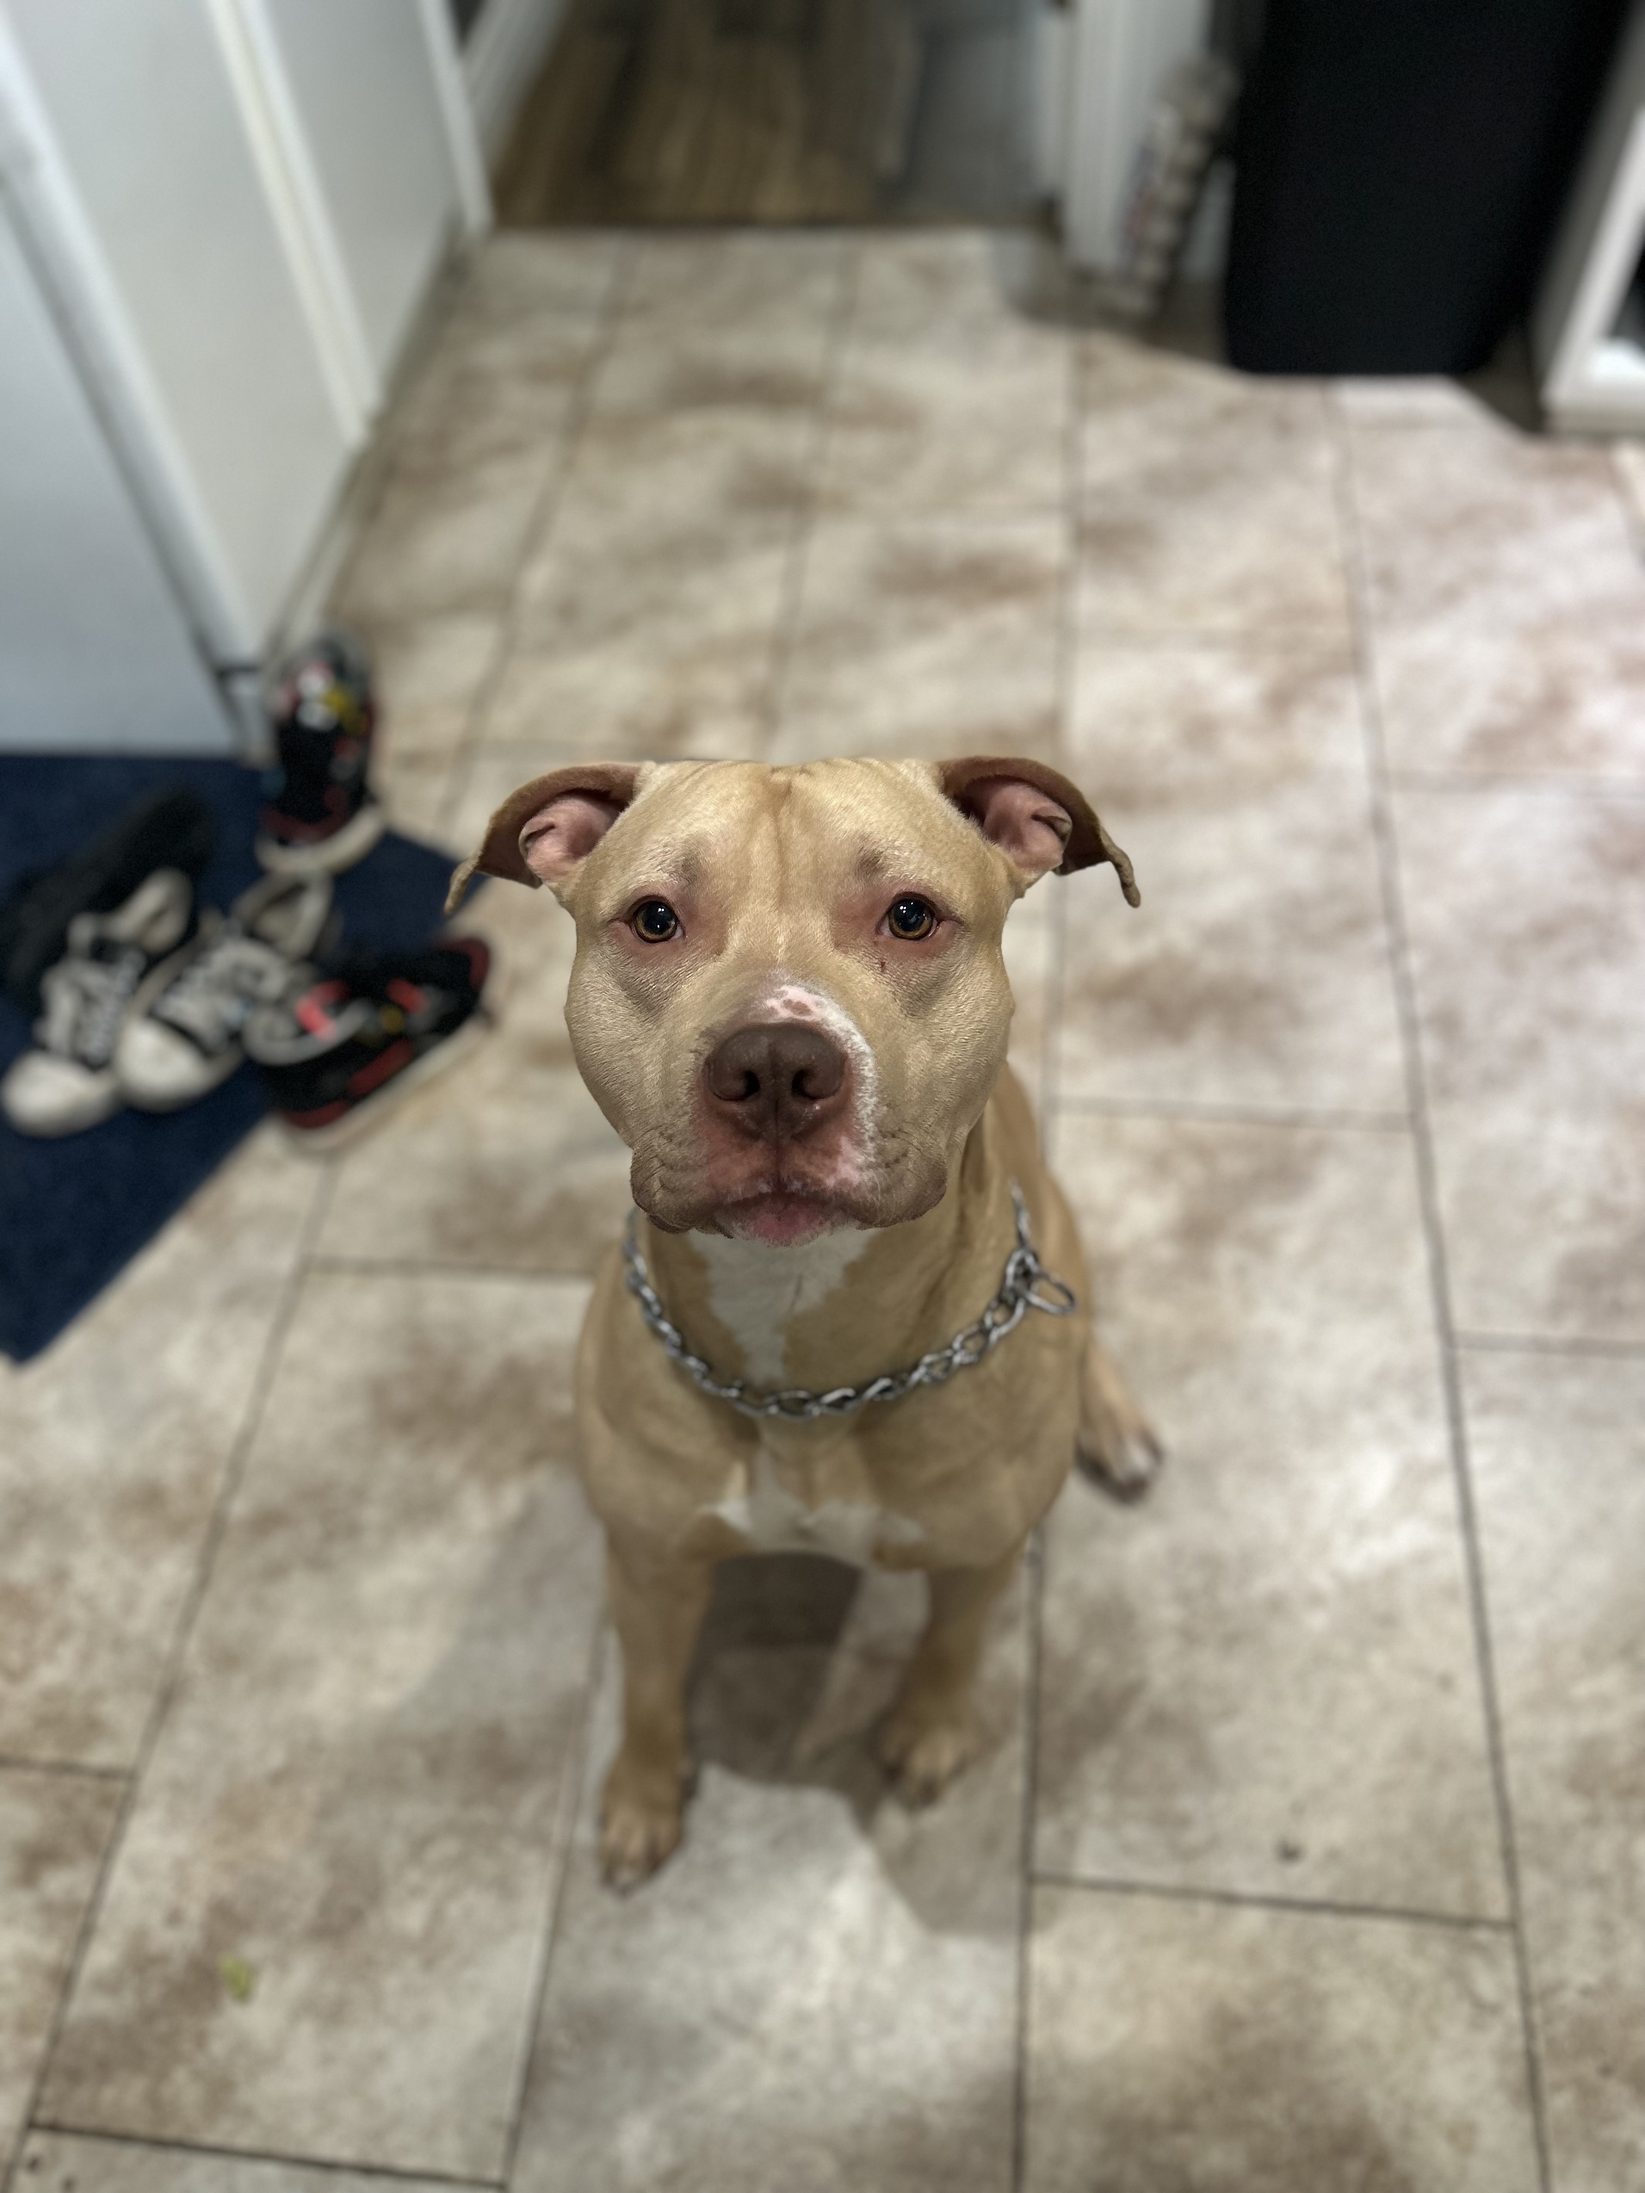
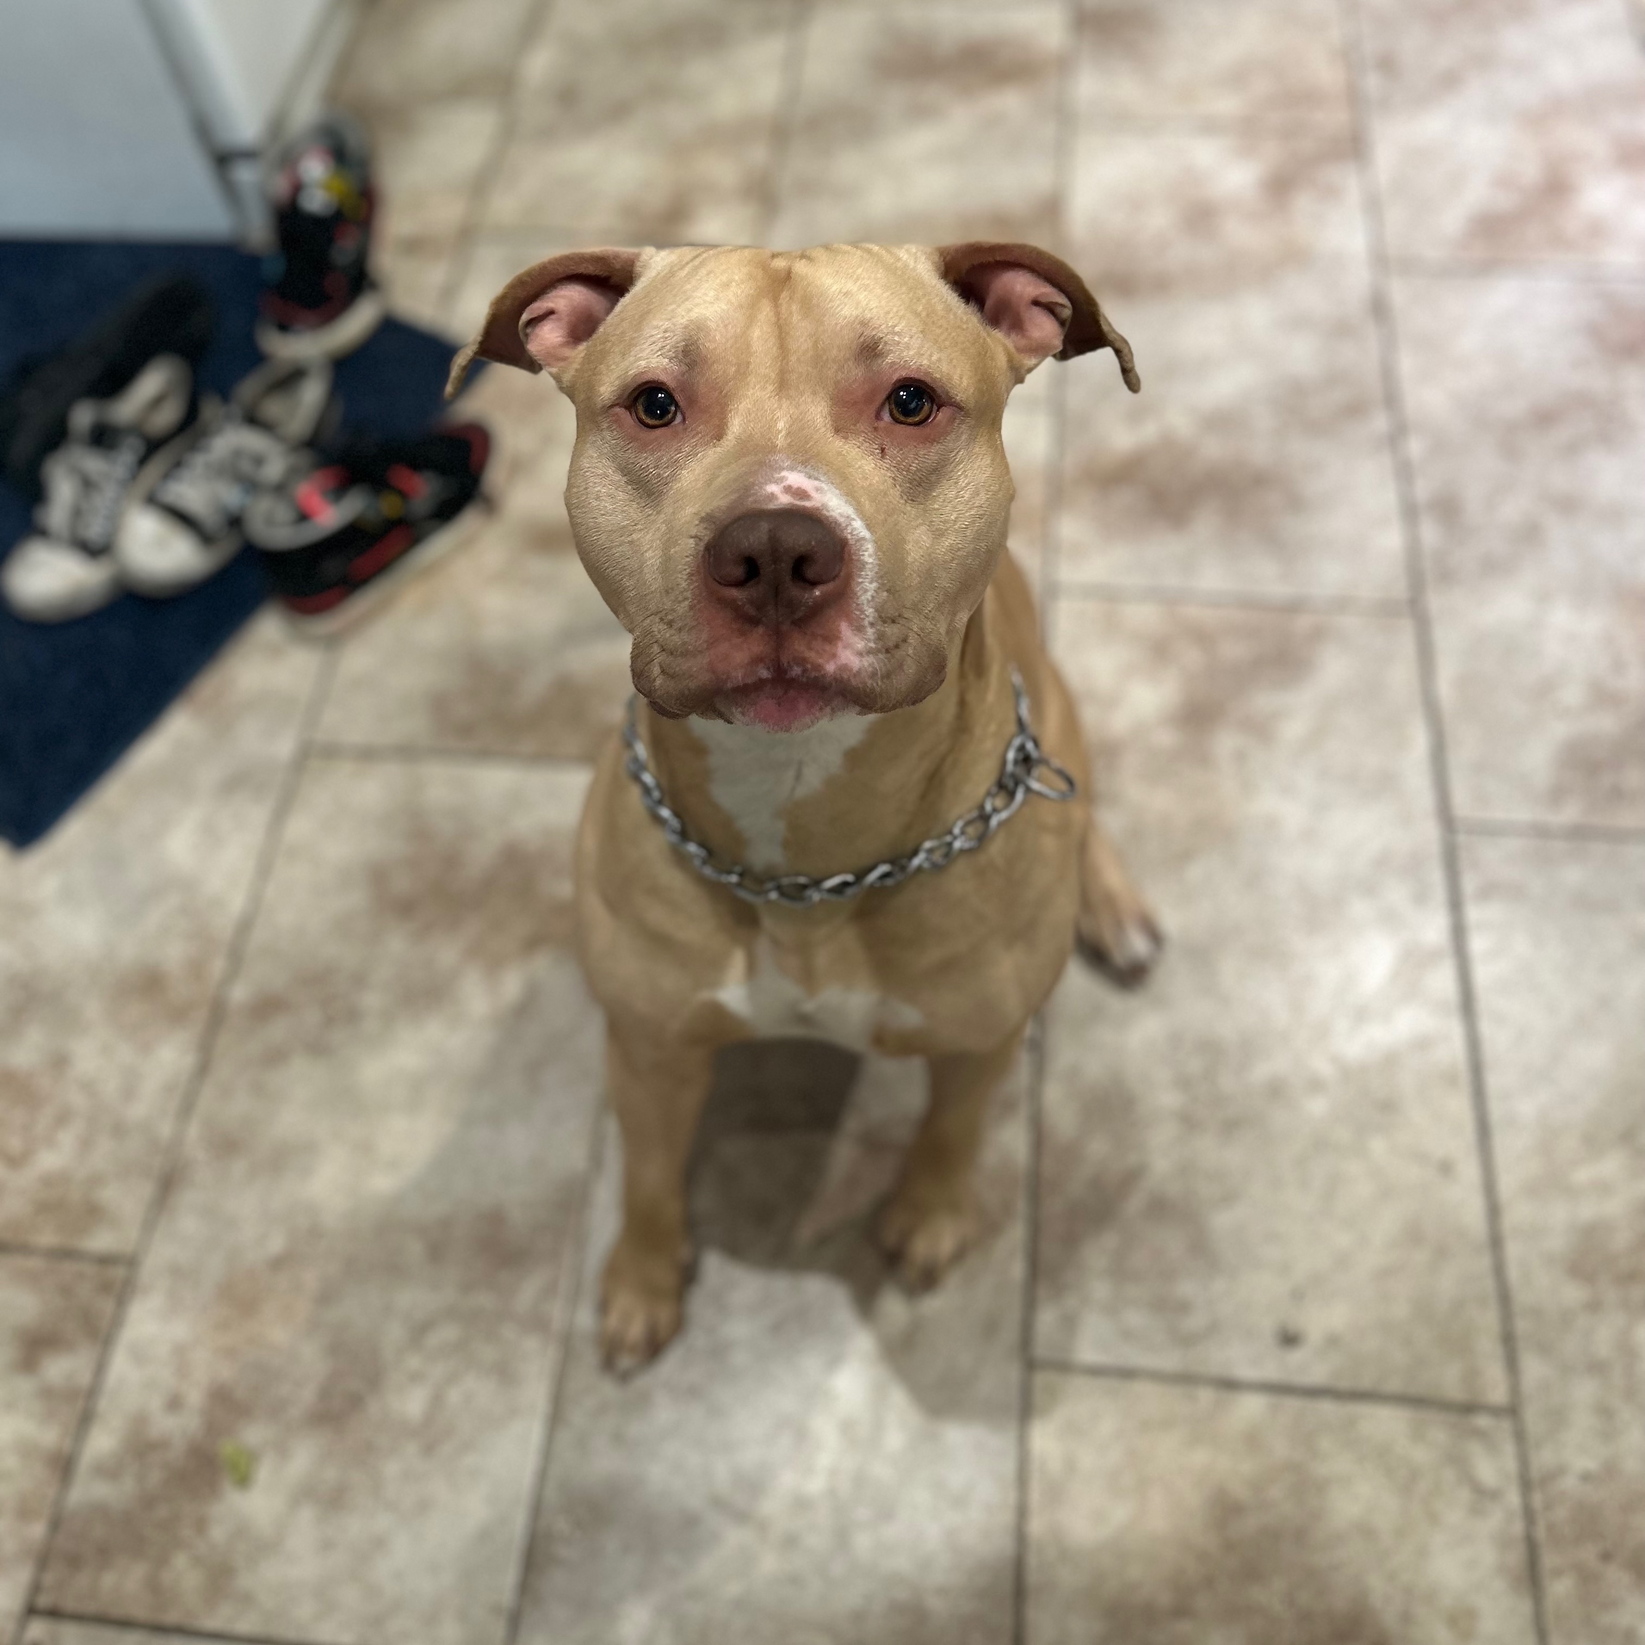
Resized OSO

diff --git a/public/about/index.html b/public/about/index.html
@@ -280,16 +280,16 @@ Work and Hobbies I am a IT Expert specializing in Mobile Device Management tools
     >Oso</a></p>
 <p><img src="/about/oso.jpg"
 	width="3024"
-	height="4032"
-	srcset="/about/oso_hu03fe35b734e5c0235ab846c3e0dbeff1_1648696_480x0_resize_q75_box.jpg 480w, /about/oso_hu03fe35b734e5c0235ab846c3e0dbeff1_1648696_1024x0_resize_q75_box.jpg 1024w"
+	height="3024"
+	srcset="/about/oso_hu127335d058d03bd6df964b789f3860a2_924496_480x0_resize_q75_box.jpg 480w, /about/oso_hu127335d058d03bd6df964b789f3860a2_924496_1024x0_resize_q75_box.jpg 1024w"
 	loading="lazy"
 	
 		alt="Oso tha dog"
 	
 	
 		class="gallery-image" 
-		data-flex-grow="75"
-		data-flex-basis="180px"
+		data-flex-grow="100"
+		data-flex-basis="240px"
 	
 ></p>
 <h3 id="books">Books</h3>
